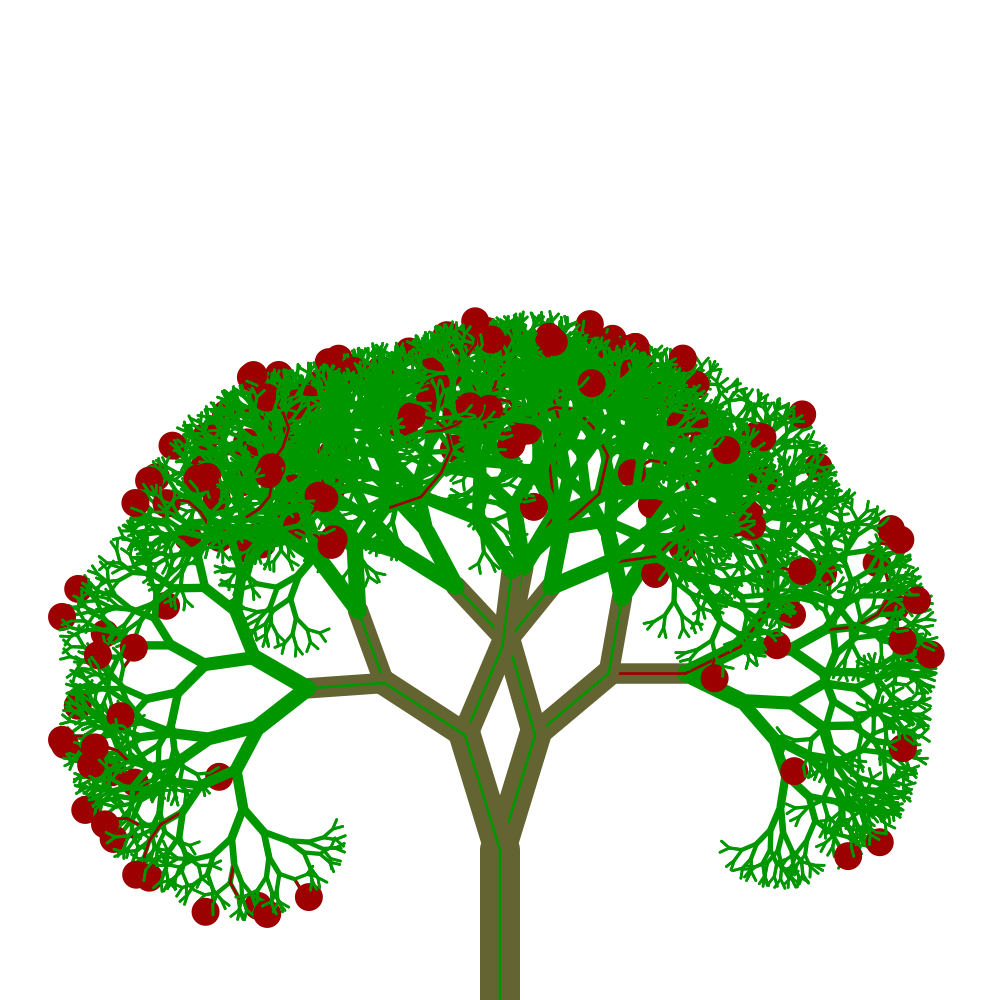
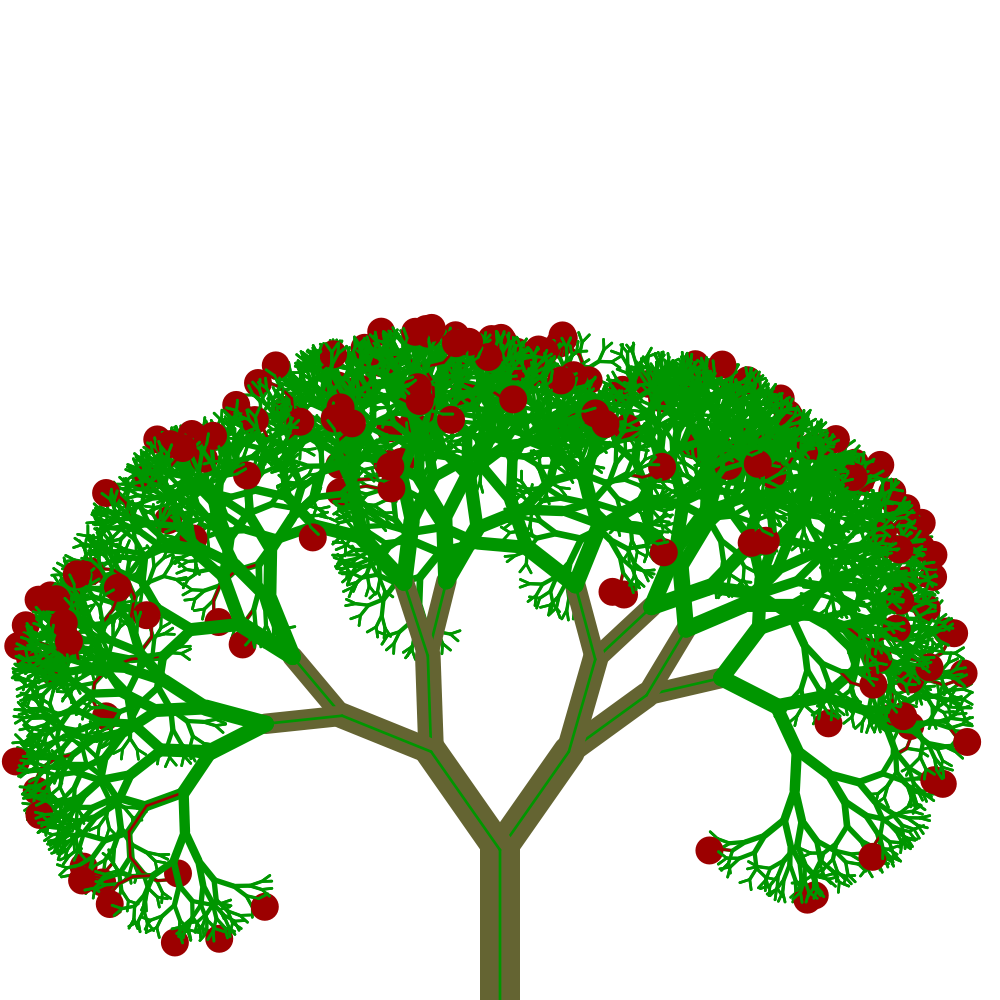
fractais

Changed region(s): [[0.0, 0.31, 0.992, 0.961]]

diff --git a/ed/fractais_png/src/go/main.go b/ed/fractais_png/src/go/main.go
@@ -2,6 +2,7 @@ package main
 
 import (
 	"fmt"
+	"math"
 	"math/rand"
 )
 
@@ -9,46 +10,34 @@ func randInt(min, max int) int {
 	return min + rand.Intn(max-min+1)
 }
 
-func desenhar(pen *Pen, tamanho, grossura float64) {
-	fator := 0.8
-	ang := float64(randInt(14, 40))
-
-	if tamanho < 10 {
-
-		if rand.Intn(50) == 0 {
-			pen.dc.SetRGB(100, 0, 0)
-			pen.FillCircle(14)
-		}
+func desenhar(pen *Pen, x, y, tamanho float64) {
+	if tamanho < 5 {
 		return
 	}
 
-	if grossura > 17 {
-		pen.SetRGB(100, 100, 50)
-	} else {
-		pen.SetRGB(0, 150, 0)
+	pen.SetPosition(x, y)
+
+	for i := 0; i < 6; i++ {
+
+		anguloRad := float64(i) * 60 * (math.Pi / 180)
+		novoX := x + tamanho*math.Cos(anguloRad)
+		novoY := y - tamanho*math.Sin(anguloRad)
+
+		desenhar(pen, novoX, novoY, tamanho/3)
+
+		pen.SetPosition(novoX, novoY)
+		pen.Walk(tamanho / 3)
+		pen.Walk(-tamanho / 3)
+		pen.Right(60)
 	}
-
-	pen.SetLineWidth(grossura)
-	pen.Walk(tamanho)
-
-	pen.Right(ang)
-	desenhar(pen, tamanho*fator, grossura*fator)
-
-	pen.Left(2 * ang)
-	desenhar(pen, tamanho*fator, grossura*fator)
-	pen.Right(ang)
-	pen.Walk(-tamanho)
-
 }
 
 func main() {
-	pen := NewPen(1000, 1000)  // cria um canvas de 500 de largura por 500 de altura
-	pen.SetRGB(100, 100, 50)   // muda a cor do pincel para vermelho
-	pen.SetPosition(500, 1000) // move o pincel para x 250, y 500
-	pen.SetHeading(90)
+	pen := NewPen(1000, 1000)
+	pen.SetRGB(0, 0, 0)
 
-	desenhar(pen, 150, 40)
+	desenhar(pen, 500, 500, 250)
 
-	pen.SavePNG("tree.png")
-	fmt.Println("PNG file created successfully.")
+	pen.SavePNG("gelo.png")
+	fmt.Println("Fractal gerado com sucesso em fractal_square.png")
 }
